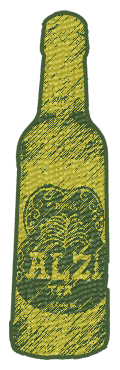
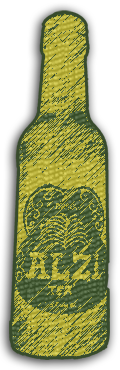
Added hero carousel

Changed region(s): [[0.0, 0.0, 0.95, 1.0]]

diff --git a/public/hero.html b/public/hero.html
@@ -58,13 +58,20 @@
     <div class="container">
 
       <!-- Main hero unit for a primary marketing message or call to action -->
-      <div class="hero-unit clearfix">
-        <div class="l">
+      <div class="hero-unit clearfix row">
+        <div class="span2 l">
           <h1>Drink</h1>
           <p>to your health</p>
           <p><a class="btn btn-primary btn-large">Learn more &raquo;</a></p>
         </div>
-        <div class="r">
+        <div id="hero-carousel" class="span6 m carousel">
+          <div class="carousel-inner">
+            <p class="active item">Donec id elit non mi porta gravida at eget metus. Fusce dapibus, tellus ac cursus commodo, tortor mauris condimentum nibh, ut</p>
+            <p class="item">Porta gravida at eget metus. Fusce dapibus, tellus ac cursus commodo, tortor mauris condimentum nibh, ut</p>
+            <p class="item">Id elit non mi porta gravida at eget metus. Fusce dapibus, tellus ac cursus commodo, tortor mauris condimentum nibh, ut</p>
+          </div>
+        </div>
+        <div class="span2 r">
           <img src="img/alzi_bottle_1.png" />
         </div>
       </div>
@@ -91,7 +98,7 @@
       <hr>
 
       <footer>
-        <p>&copy; Company 2012</p>
+        <p>&copy; ALZi Tea, 2012</p>
       </footer>
 
     </div> <!-- /container -->
@@ -112,6 +119,11 @@
     <script src="js/bootstrap-collapse.js"></script>
     <script src="js/bootstrap-carousel.js"></script>
     <script src="js/bootstrap-typeahead.js"></script>
+    <script type="text/javascript">
+      $("#hero-carousel").carousel({
+        interval: 5000
+      });
+    </script>
 
   </body>
 </html>

diff --git a/public/css/css/bootstrap.css b/public/css/css/bootstrap.css
@@ -4082,7 +4082,7 @@ footer.footer p {
   box-shadow: none;
 }
 div.subnav {
-  background-color: rgba(62, 99, 105, 0.9);
+  background-color: rgba(42, 99, 105, 0.9);
   background-image: none;
   border: 0px solid transparent;
   -webkit-border-radius: 0;
@@ -4722,18 +4722,20 @@ body {
 .hero-unit {
   background-color: rgba(66, 102, 56, 0.7);
   padding: 10px;
+  overflow: hidden;
+  height: 400px;
 }
-.hero-unit .l {
+.hero-unit .l,
+.hero-unit .m {
+  padding: 60px 0px 0px 60px;
   text-align: center;
-  padding: 40px;
-  float: left;
-  font-style: italic;
+}
+.hero-unit .m p {
+  font-size: 3em;
+  line-height: 1.4em;
 }
 .hero-unit .r {
   float: right;
-}
-.hero-unit .r img {
-  height: 350px;
 }
 .banner {
   height: 240px;

diff --git a/public/css/less/custom.less b/public/css/less/custom.less
@@ -24,21 +24,22 @@ body {
 .hero-unit {
 	background-color: fade(@navbarBackground, 70%);
 	padding: 10px;
-	.l {
+	overflow: hidden;
+	height: 400px;
+	.l,.m {
+		padding: 60px 0px 0px 60px;
 		text-align: center;
-		padding: 40px;
-		float: left;
-		font-style: italic;
+	}
+	.m p{
+		font-size: 3em;
+		line-height: 1.4em;
 	}
 	.r {
 		float: right;
-		img {
-			 height: 350px;
-		}
 	}
 }
 
-
+// .l,.m,.r { border: 1px solid yellow;}
 
 // Navbar
 // -------------------------

diff --git a/public/css/less/bootswatch.less b/public/css/less/bootswatch.less
@@ -90,7 +90,7 @@ footer.footer {
 }
 
 div.subnav {
-	background-color: rgba(62, 99, 105, 0.9);
+	background-color: rgba(42, 99, 105, 0.9);
 	background-image: none;
 	border: 0px solid transparent;
 	.border-radius(0);
